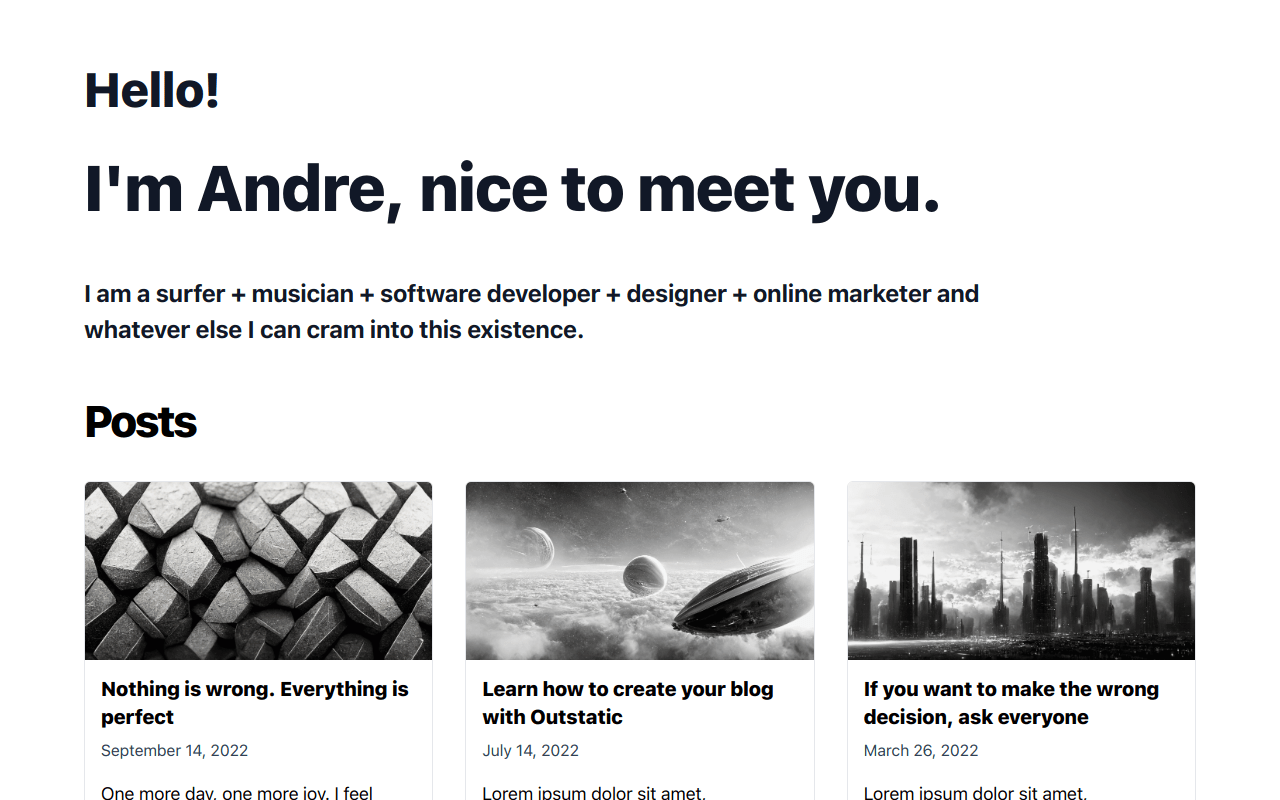
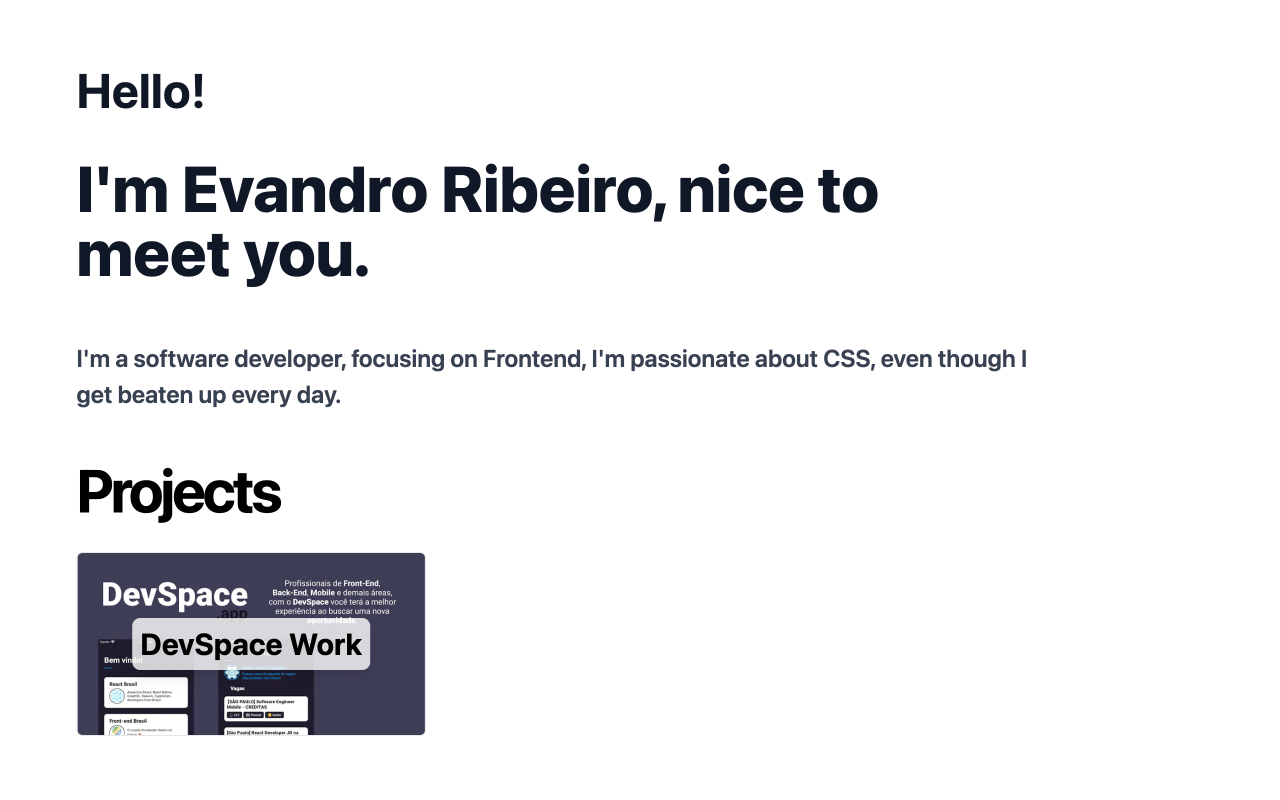
feat: update opengraph info and images

Changed region(s): [[0.0625, 0.4062, 0.9375, 1.0], [0.0625, 0.1875, 0.7812, 0.375], [0.0625, 0.0938, 0.1875, 0.1562]]

diff --git a/src/app/layout.tsx b/src/app/layout.tsx
@@ -3,17 +3,17 @@ import { Metadata } from 'next'
 import '../styles/index.css'
 
 export const metadata: Metadata = {
-  metadataBase: new URL('https://outstatic.com'),
+  metadataBase: new URL('https:/ribeiroevandro.com.br'),
   title: {
-    default: 'Outstatic',
-    template: '%s | Outstatic'
+    default: 'Evandro Ribeiro',
+    template: '%s | Evandro Ribeiro'
   },
-  description: 'A blog starter built with Outstatic.',
+  description: 'Sou desenvolvedor de software, com foco em Frontend, sou apaixonado por CSS.',
   openGraph: {
-    title: 'Outstatic - A Static Site CMS for Next.js',
-    description: 'A blog starter built with Outstatic.',
+    title: 'Evandro Ribeiro - Sou desenvolvedor de software, com foco em Frontend, sou apaixonado por CSS.',
+    description: 'Sou desenvolvedor de software, com foco em Frontend, sou apaixonado por CSS.',
     url: absoluteUrl('/'),
-    siteName: 'Next.js',
+    siteName: 'Evandro Ribeiro',
     images: [
       {
         url: absoluteUrl('/images/og-image.png'),
@@ -21,7 +21,7 @@ export const metadata: Metadata = {
         height: 1600
       }
     ],
-    locale: 'en_US',
+    locale: 'pt_BR',
     type: 'website'
   },
   icons: {
